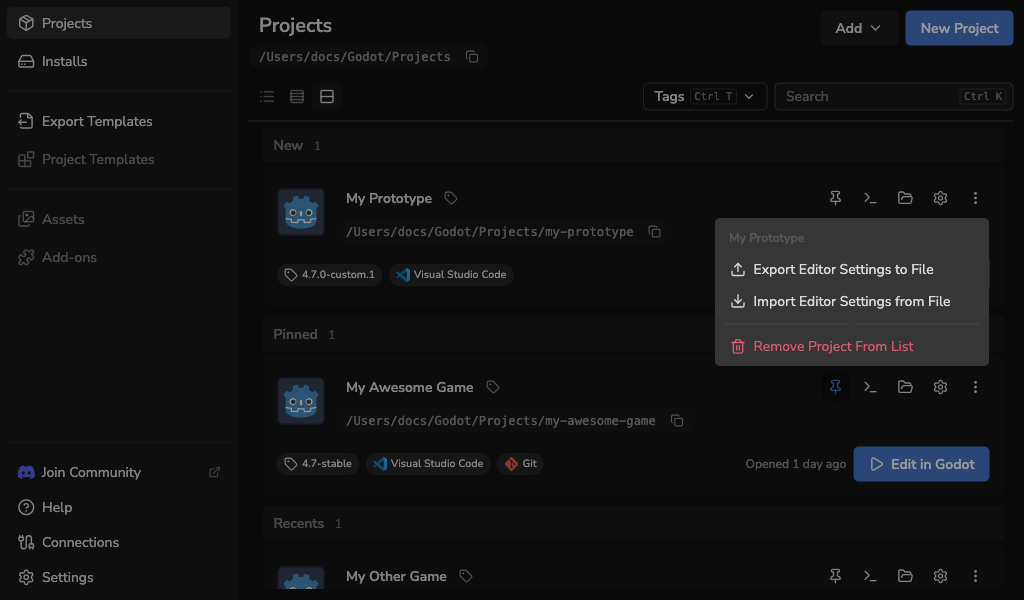
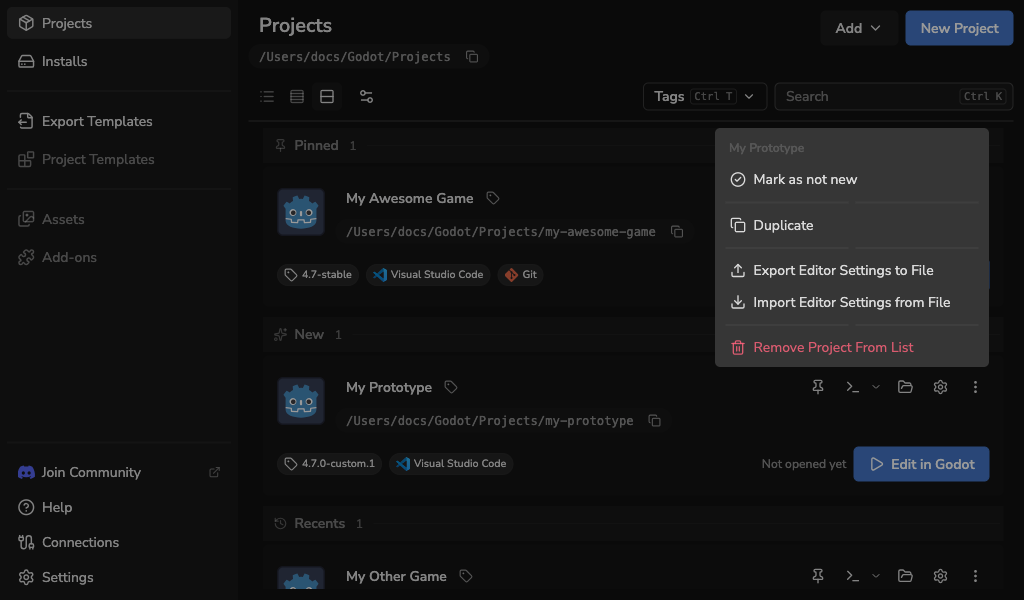
docs: explain project duplication

diff --git a/sidebars.ts b/sidebars.ts
@@ -59,6 +59,7 @@ export default {
           type: "ref",
           id: "projects/add-existing-project",
         },
+        "projects/duplicate-project",
         "projects/project-settings",
         "projects/launch-godot-project-in-windowed-mode",
         "projects/launch-godot-in-terminal",
